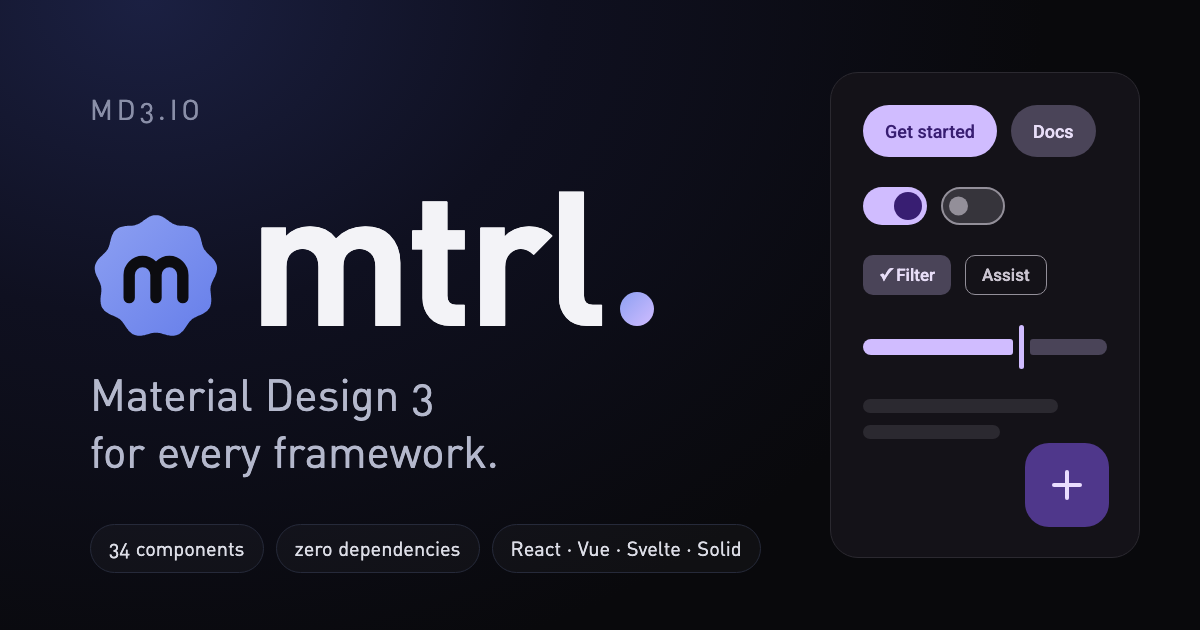
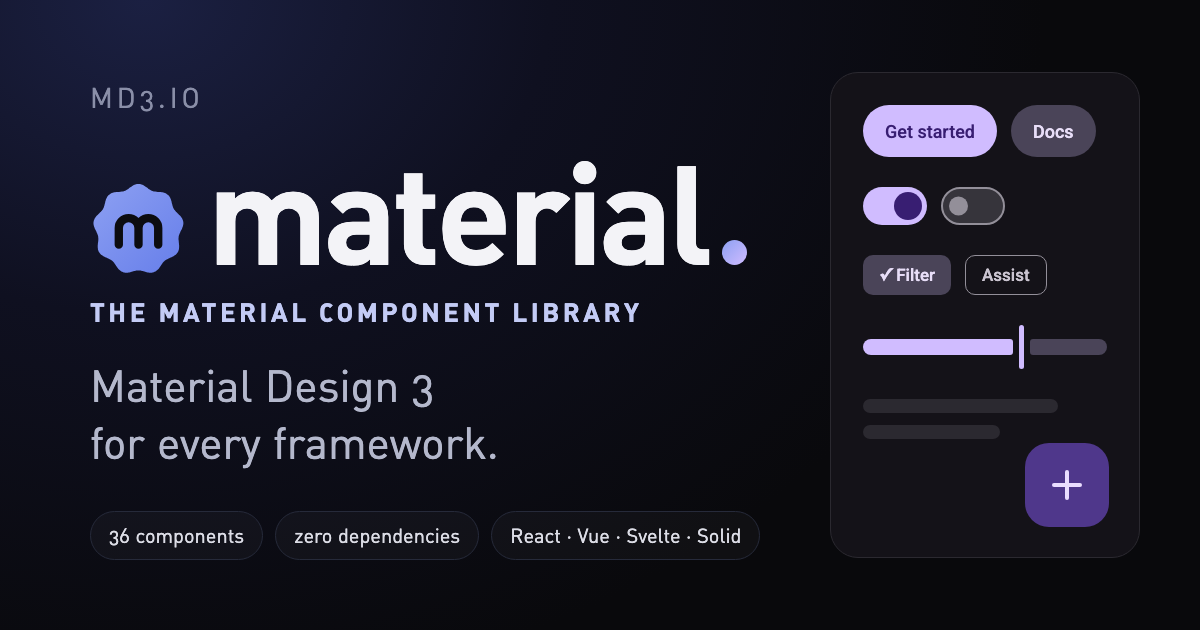
feat(og): the social image says material, generated by a script
scripts/brand-images.ts (bun run brand-images) draws the card with the wordmark
material. at a size that fits beside the panel, and the line THE MATERIAL COMPONENT
LIBRARY under it. The image's alt text names material.

diff --git a/scripts/brand-images.ts b/scripts/brand-images.ts
@@ -55,14 +55,15 @@ const card = `<!doctype html><html><head><style>
   * { box-sizing: border-box; margin: 0; }
   body { width: 1200px; height: 630px; overflow: hidden; font-family: DIN, sans-serif; color: #f3f3f7;
     background: radial-gradient(ellipse 900px 700px at 12% 0%, #1b2042 0%, #0f1020 45%, #09090c 100%); position: relative; }
-  .text { position: absolute; left: 90px; top: 92px; }
-  .eyebrow { font-size: 28px; letter-spacing: 4px; color: #8a8fa8; }
-  .wordmark { font-size: 188px; font-weight: 700; letter-spacing: -6px; line-height: 1; margin: 30px 0 22px 0; white-space: nowrap; }
+  .text { position: absolute; left: 90px; top: 80px; }
+  .eyebrow { font-size: 28px; letter-spacing: 4px; color: #8a8fa8; white-space: nowrap; }
+  .wordmark { font-size: 138px; font-weight: 700; letter-spacing: -4.5px; line-height: 1; margin: 26px 0 18px 0; white-space: nowrap; }
   /* About the cap height; middle centres it on the x-height (baseline + half the x-height). */
-  .mark { width: 132px; height: 132px; margin-right: 26px; vertical-align: middle; }
-  .dot { display: inline-block; width: 34px; height: 34px; border-radius: 50%; margin-left: 18px; background: linear-gradient(135deg, #8da0f2, #d0bcff); }
+  .mark { width: 97px; height: 97px; margin-right: 20px; vertical-align: middle; }
+  .dot { display: inline-block; width: 25px; height: 25px; border-radius: 50%; margin-left: 13px; background: linear-gradient(135deg, #8da0f2, #d0bcff); }
+  .library { font-size: 26px; font-weight: 700; letter-spacing: 3.5px; color: #c3cbf5; white-space: nowrap; margin-bottom: 30px; }
   .tagline { font-size: 44px; line-height: 1.3; color: #b4b8cc; }
-  .pills { display: flex; gap: 12px; margin-top: 44px; }
+  .pills { display: flex; gap: 12px; margin-top: 40px; }
   .pill { font-size: 20px; padding: 11px 18px; border-radius: 999px; border: 1.5px solid #262a3a; background: rgba(255,255,255,.03); color: #dcdde6; white-space: nowrap; }
   .panel { position: absolute; left: 830px; top: 72px; width: 310px; height: 486px; border-radius: 28px; background: #141218; border: 1.5px solid #2b2930;
     padding: 32px; display: flex; flex-direction: column; gap: 30px; font-family: Roboto, sans-serif; }
@@ -89,7 +90,8 @@ const card = `<!doctype html><html><head><style>
 </style></head><body>
   <div class="text">
     <div class="eyebrow">MD3.IO</div>
-    <div class="wordmark"><img class="mark" src="${dataUrl}" alt="">mtrl<span class="dot"></span></div>
+    <div class="wordmark"><img class="mark" src="${dataUrl}" alt="">material<span class="dot"></span></div>
+    <div class="library">THE MATERIAL COMPONENT LIBRARY</div>
     <div class="tagline">Material Design 3<br>for every framework.</div>
     <div class="pills">${pills.map(pill => `<span class="pill">${pill}</span>`).join('')}</div>
   </div>
